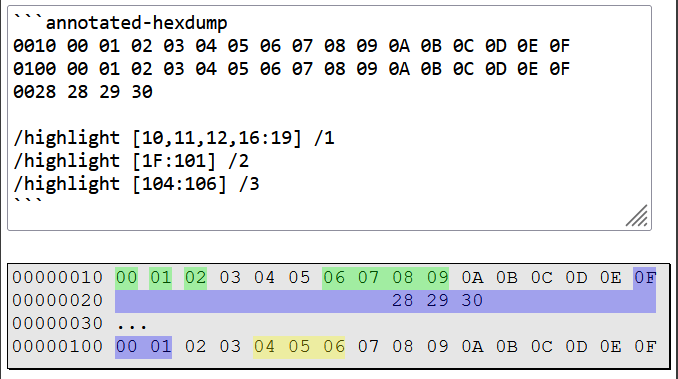
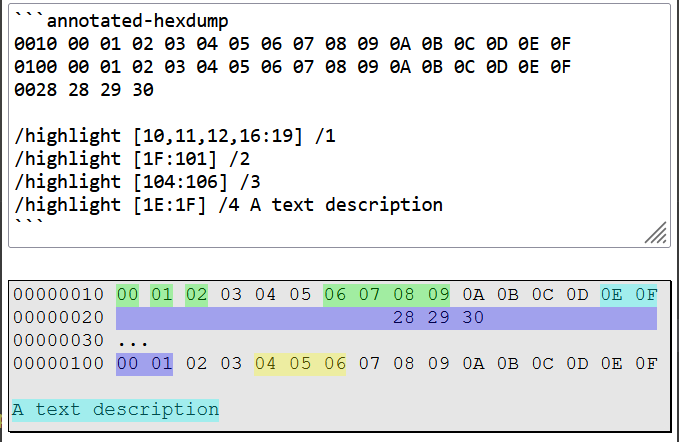
feat: allow text after a /highlight format
This allows for easier ways to add text, as you can write

    /highlight [0:100] /1 This bit does X

instead of

    /highlight [0:100] /1
    /note /1 This bit does X

diff --git a/src/common.ts b/src/common.ts
@@ -10,6 +10,7 @@ import {
   HighlightCommand,
   SetBaseAddressCommand,
   NoteCommand,
+  ITokenWithNote as ITokenWithText,
 } from './inputTokens';
 import { maxBigInt, minBigInt } from './bigint';
 
@@ -183,12 +184,12 @@ export function processTokens(tokens: BaseToken[]): string {
           if (upper >= lower) {
             // Units are characters - ch in x and 1.2em in height
             const x0 = BigInt(addressWidth * 2 + 1) + (lower - startPosition) * BigInt(3);
-            const y0 = lines.length - 1;
+            const y0 = ((lines.length - 1) * 1.2).toFixed(1);
             const w = (upper - lower + BigInt(1)) * BigInt(3) - BigInt(1);
             const style = STANDARD_STYLES[tk.format];
 
             highlightRects.push(
-              `<rect width="${w}ch" height="1.2em" x="${x0}ch" y="${y0 * 1.2}em" style="${style}"/>`,
+              `<rect width="${w}ch" height="1.2em" x="${x0}ch" y="${y0}em" style="${style}"/>`,
             );
           }
         }
@@ -202,32 +203,33 @@ export function processTokens(tokens: BaseToken[]): string {
   }
 
   // Add notes
-  const noteTokens: NoteCommand[] = tokens.filter(
-    (p) => p instanceof NoteCommand,
-  ) as NoteCommand[];
+  const tokensWithText: ITokenWithText[] = tokens.filter(
+    (p) => p instanceof NoteCommand || (p instanceof HighlightCommand && p.text !== undefined),
+  ) as ITokenWithText[];
 
-  if (noteTokens.length !== 0) {
+  if (tokensWithText.length !== 0) {
     lines.push('');
   }
 
-  for (const nk of noteTokens) {
+  for (const nk of tokensWithText) {
     lines.push(nk.text);
-    const y0 = lines.length - 1;
+    const y0 = ((lines.length - 1) * 1.2).toFixed(1);
     const w = nk.text.length;
     const style = STANDARD_STYLES[nk.format];
 
-    highlightRects.push(`<rect width="${w}ch" height="1.2em" x="0ch" y="${y0 * 1.2}em" style="${style}"/>`);
+    highlightRects.push(`<rect width="${w}ch" height="1.2em" x="0ch" y="${y0}em" style="${style}"/>`);
   }
 
   const svg = (() => {
     if (highlightRects.length === 0) {
       return '';
     }
+    const svgHeight = (lines.length * 1.2).toFixed(1);
     // The SVG gets wrapped in an invisible code element so that it
     // inherits the correct fonts
     return (
       '<code style="z-index:1; visibility: hidden; grid-area: container;">'
-      + `<svg style="opacity: 0.3; visibility: visible; width: 100%; height: ${lines.length * 1.2}em;" xmlns="http://www.w3.oprg/2000/svg">`
+      + `<svg style="opacity: 0.3; visibility: visible; width: 100%; height: ${svgHeight}em;" xmlns="http://www.w3.oprg/2000/svg">`
       + highlightRects.join('')
       + '</svg></code>'
     );

diff --git a/spec/marked.test.js b/spec/marked.test.js
@@ -296,7 +296,28 @@ describe('marked-extension', () => {
     expect(marked(markdown)).toBe(
       TOP_AND_TAIL_SVG(
         '00000000 00 01 02 03 04 05 06 07 08 09 0A 0B 0C 0D      ',
-        '<rect width="11ch" height="1.2em" x="21ch" y="0em" style="fill:#00ff00"/>',
+        '<rect width="11ch" height="1.2em" x="21ch" y="0.0em" style="fill:#00ff00"/>',
+      ),
+    );
+  });
+
+  test('can highlight with a note', () => {
+    // GIVEN 14 bytes of data
+    // AND /highlight set of bytes 4-7 inclusive
+    // AND a note after the highlight
+    // WHEN the markdown is rendered
+    // THEN the SVG is included
+    // AND the note is included
+    marked.use(annotatedHex());
+    const markdown =
+      '```annotated-hexdump\n'
+      + '/highlight [4:7] /1\n'
+      + '0000 00 01 02 03 04 05 06 07 08 09 0A 0B 0C 0D\n```';
+
+    expect(marked(markdown)).toBe(
+      TOP_AND_TAIL_SVG(
+        '00000000 00 01 02 03 04 05 06 07 08 09 0A 0B 0C 0D      ',
+        '<rect width="11ch" height="1.2em" x="21ch" y="0.0em" style="fill:#00ff00"/>',
       ),
     );
   });
@@ -310,15 +331,18 @@ describe('marked-extension', () => {
     marked.use(annotatedHex());
     const markdown =
       '```annotated-hexdump\n'
-      + '/highlight [8:A] /1\n'
+      + '/highlight [8:A] /1 Trailing note\n'
       + '/width 8\n'
       + '0000 00 01 02 03 04 05 06 07 08 09 0A 0B 0C 0D 0E 0F\n```';
 
     expect(marked(markdown)).toBe(
       TOP_AND_TAIL_SVG(
         '00000000 00 01 02 03 04 05 06 07\n'
-          + '00000008 08 09 0A 0B 0C 0D 0E 0F',
-        '<rect width="8ch" height="1.2em" x="9ch" y="1.2em" style="fill:#00ff00"/>',
+          + '00000008 08 09 0A 0B 0C 0D 0E 0F\n'
+          + '\n'
+          + 'Trailing note',
+        '<rect width="8ch" height="1.2em" x="9ch" y="1.2em" style="fill:#00ff00"/>'
+        + '<rect width="13ch" height="1.2em" x="0ch" y="3.6em" style="fill:#00ff00"/>',
       ),
     );
   });

diff --git a/spec/inputTokens.test.js b/spec/inputTokens.test.js
@@ -182,11 +182,28 @@ describe('CommandToken', () => {
       expect(cmd.ranges[0]).toEqual({ start: BigInt(0), end: BigInt(1) });
     });
 
-    test('allows extra whitespace', () => {
-      const cmd = CommandToken.parseCommand('/highlight    [0:1]     /1');
+    test('allows a note', () => {
+      const cmd = CommandToken.parseCommand('/highlight [0:1] /1 Trailing note');
       expect(cmd).toBeInstanceOf(HighlightCommand);
       expect(cmd.format).toEqual(1);
       expect(cmd.ranges[0]).toEqual({ start: BigInt(0), end: BigInt(1) });
+      expect(cmd.text).toEqual('Trailing note');
+    });
+
+    test('whitespace note translated to undefined', () => {
+      const cmd = CommandToken.parseCommand('/highlight [0:1] /1      ');
+      expect(cmd).toBeInstanceOf(HighlightCommand);
+      expect(cmd.format).toEqual(1);
+      expect(cmd.ranges[0]).toEqual({ start: BigInt(0), end: BigInt(1) });
+      expect(cmd.text).toEqual(undefined);
+    });
+
+    test('allows extra whitespace', () => {
+      const cmd = CommandToken.parseCommand('/highlight    [0:1]     /1   Trailing note  ');
+      expect(cmd).toBeInstanceOf(HighlightCommand);
+      expect(cmd.format).toEqual(1);
+      expect(cmd.ranges[0]).toEqual({ start: BigInt(0), end: BigInt(1) });
+      expect(cmd.text).toEqual('Trailing note');
     });
 
     test('rejects whitespace format', () => {

diff --git a/src/inputTokens.ts b/src/inputTokens.ts
@@ -181,11 +181,12 @@ export class SetMissingCharacterCommand extends CommandToken {
 export class HighlightCommand extends CommandToken {
   ranges: { start: bigint; end: bigint }[];
   format: number;
+  text: string | undefined;
 
   constructor(line: string) {
     super();
 
-    const match = /^\/highlight +\[([0-9a-fA-F:,]+)\] +\/(.+)$/.exec(line);
+    const match = /^\/highlight +\[([0-9a-fA-F:,]+)\] +\/([0-9]+) ?(.+)?$/.exec(line);
     if (!match) {
       throw new Error(`Error parsing command '${line}'`);
     }
@@ -208,6 +209,13 @@ export class HighlightCommand extends CommandToken {
       );
     }
     this.format = formatIndex;
+
+    // Extract the optional text
+    // Pure whitespace is ignored
+    this.text = match[3]?.trim() ?? undefined;
+    if (this.text?.length === 0) {
+      this.text = undefined;
+    }
 
     // Now parse the ranges. These will be expressed as a series ranges, separated with commas
     this.ranges = [];
@@ -286,4 +294,9 @@ export class NoteCommand extends CommandToken {
 
     this.text = match[2].trim();
   }
+}
+
+export interface ITokenWithNote {
+  text: string;
+  format: number;
 }

diff --git a/spec/helper.ts b/spec/helper.ts
@@ -17,7 +17,7 @@ export const TOP_AND_TAIL_SVG = (data: string, svg: string) => {
   const preSvg =
     '<code style="z-index:1; visibility: hidden; grid-area: container;">'
     + `<svg style="opacity: 0.3; visibility: visible; width: 100%; height: ${
-      1.2 * lineCount
+      (1.2 * lineCount).toFixed(1)
     }em;" xmlns="http://www.w3.oprg/2000/svg">`;
 
   return `${PRE_CODE}${data}</code>${preSvg}${svg}</svg>${POST_CODE}`;

diff --git a/README.md b/README.md
@@ -71,7 +71,7 @@ The width of the data and address elements in the hexdump can be controlled with
 
 ![](./.img/Example5.png)
 
-You can highlight regions of a hexdump with `/highlight`. This takes two arguments:
+You can highlight regions of a hexdump with `/highlight`. This takes 2/3 arguments:
 
 -   An inclusive range of addresses to highlight. This is enclosed in square brackets `[]`, and can contain single addresses, or ranges delimited with a colon. Multiple ranges (or single addresses) can be combined with commas.
     -   `[1]` - defines a address 0x01 only
@@ -79,6 +79,8 @@ You can highlight regions of a hexdump with `/highlight`. This takes two argumen
     -   `[1:3]` - defines a contiguous highlight over the same three bytes.
     -   `[1:3, 100:200]` - defines two contiguous highlights.
 -   A style in the form `/N`, where N is a number between 0 and 15.
+-   An optional text string, which will be added as a note describing the highlighted region, and will be highlighted
+    in the same colour.
 
 ````markdown
 ```annotated-hexdump
@@ -89,6 +91,7 @@ You can highlight regions of a hexdump with `/highlight`. This takes two argumen
 /highlight [10,11,12,16:19] /1
 /highlight [1F:101] /2
 /highlight [104:106] /3
+/highlight [1E:1F] /4 A text description
 ```
 ````
 
